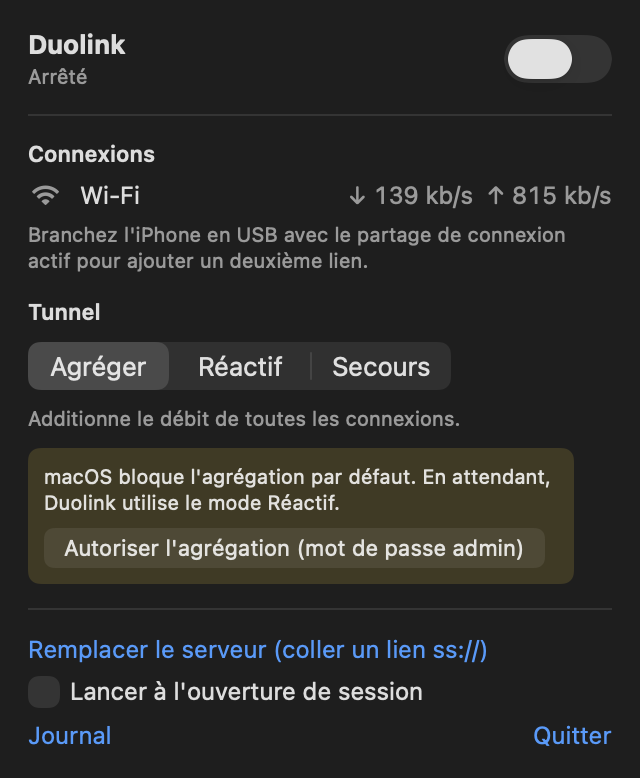
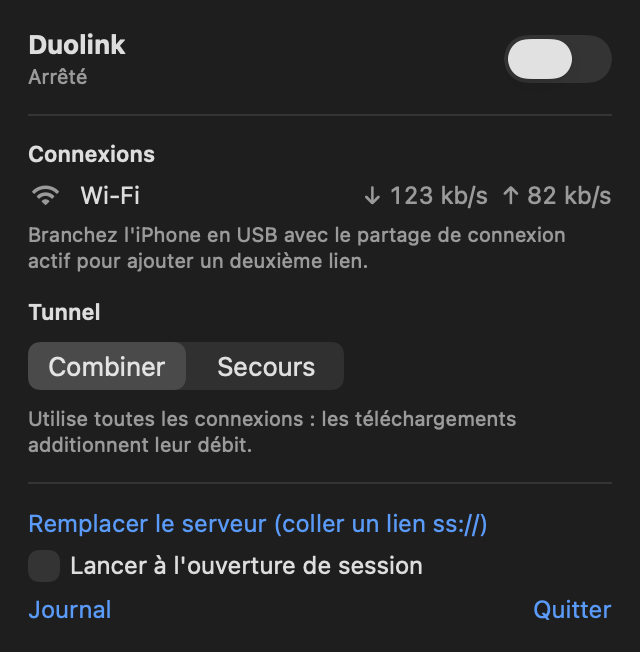
fix: drop the admin-only aggregate mode
The XNU scheduler only splits uploads between a cellular and a
non-cellular subflow, so the aggregate service type changes nothing
for Wi-Fi plus iPhone USB, both non-cellular. The interactive type
already opens a subflow per interface and the Linux server spreads
downloads over all of them. This removes the root sysctl, its
LaunchDaemon and the password prompt that kept coming back because
macOS kept the sysctl at 0.

diff --git a/client/Sources/Duolink/AppModel.swift b/client/Sources/Duolink/AppModel.swift
@@ -18,7 +18,6 @@ final class AppModel {
     private(set) var links: [LinkStatus] = []
     private(set) var stats = RelayStats()
     private(set) var tunnelRates = Throughput()
-    private(set) var aggregateAllowed = AggregatePermission.isAllowed
     private(set) var notice: String?
     private(set) var launchAtLogin = SMAppService.mainApp.status == .enabled
 
@@ -27,12 +26,6 @@ final class AppModel {
             UserDefaults.standard.set(mode.rawValue, forKey: Keys.mode)
             if isOn { restart() }
         }
-    }
-
-    /// The mode actually used: aggregation silently falls back to interactive
-    /// until the admin permission is granted, instead of failing every connection.
-    var effectiveMode: MultipathMode {
-        mode == .aggregate && !aggregateAllowed ? .interactive : mode
     }
 
     var isOn: Bool { status == .running || status == .starting }
@@ -50,7 +43,7 @@ final class AppModel {
     }
 
     init() {
-        mode = UserDefaults.standard.string(forKey: Keys.mode).flatMap(MultipathMode.init(rawValue:)) ?? .aggregate
+        mode = UserDefaults.standard.string(forKey: Keys.mode).flatMap(MultipathMode.init(rawValue:)) ?? .combine
         server = store.load()
 
         linkMonitor.start { [weak self] links in
@@ -82,7 +75,7 @@ final class AppModel {
         status = .starting
         notice = nil
         let tunnel = Tunnel(
-            options: Tunnel.Options(server: server, mode: effectiveMode, supportDirectory: store.directory)
+            options: Tunnel.Options(server: server, mode: mode, supportDirectory: store.directory)
         ) { [weak self] error in
             Task { @MainActor in self?.fail(error, from: nil) }
         }
@@ -137,11 +130,6 @@ final class AppModel {
     }
 
     private func tick() {
-        let allowed = AggregatePermission.isAllowed
-        if allowed != aggregateAllowed {
-            aggregateAllowed = allowed
-            if mode == .aggregate, isOn { restart() }
-        }
         guard let tunnel else { return }
         stats = tunnel.relayStats
         let now = ProcessInfo.processInfo.systemUptime
@@ -167,17 +155,6 @@ final class AppModel {
             if isOn { restart() }
         } catch {
             notice = "Ce n'est pas un lien ss:// valide."
-        }
-    }
-
-    func allowAggregate() {
-        Task.detached {
-            do {
-                try AggregatePermission.install()
-            } catch {
-                await MainActor.run { self.notice = error.localizedDescription }
-            }
-            await MainActor.run { self.tick() }
         }
     }
 

diff --git a/client/Sources/Duolink/MenuView.swift b/client/Sources/Duolink/MenuView.swift
@@ -91,9 +91,8 @@ struct MenuView: View {
                 }
             }
             Picker("Mode", selection: $model.mode) {
-                Text("Agréger").tag(MultipathMode.aggregate)
-                Text("Réactif").tag(MultipathMode.interactive)
-                Text("Secours").tag(MultipathMode.handover)
+                Text("Combiner").tag(MultipathMode.combine)
+                Text("Secours").tag(MultipathMode.backup)
             }
             .pickerStyle(.segmented)
             .labelsHidden()
@@ -102,17 +101,6 @@ struct MenuView: View {
                 .foregroundStyle(.secondary)
                 .fixedSize(horizontal: false, vertical: true)
 
-            if model.mode == .aggregate && !model.aggregateAllowed {
-                VStack(alignment: .leading, spacing: 6) {
-                    Text("macOS bloque l'agrégation par défaut. En attendant, Duolink utilise le mode Réactif.")
-                        .font(.caption)
-                        .fixedSize(horizontal: false, vertical: true)
-                    Button("Autoriser l'agrégation (mot de passe admin)") { model.allowAggregate() }
-                        .controlSize(.small)
-                }
-                .padding(8)
-                .background(.yellow.opacity(0.15), in: RoundedRectangle(cornerRadius: 6))
-            }
 
             if model.serverUnreachable {
                 Text("Le serveur ne répond pas. Les apps qui passent par Duolink n'ont plus Internet : vérifiez le VPS ou désactivez Duolink.")
@@ -198,9 +186,8 @@ extension LinkStatus.Kind {
 extension MultipathMode {
     var explanation: String {
         switch self {
-        case .aggregate: "Additionne le débit de toutes les connexions."
-        case .interactive: "Utilise la connexion la plus rapide et déborde sur l'autre si besoin."
-        case .handover: "Utilise une seule connexion et bascule sans coupure si elle tombe."
+        case .combine: "Utilise toutes les connexions : les téléchargements additionnent leur débit."
+        case .backup: "Utilise une seule connexion et bascule sans coupure si elle tombe. Économise le forfait."
         case .disabled: ""
         }
     }

diff --git a/client/Sources/DuolinkCore/MultipathRelay.swift b/client/Sources/DuolinkCore/MultipathRelay.swift
@@ -2,23 +2,26 @@ import Foundation
 import Network
 import os
 
-/// How macOS spreads one MPTCP connection over the available interfaces.
+/// How the Mac uses its interfaces for one MPTCP connection.
+///
+/// macOS also has an "aggregate" service type, but it needs a root sysctl and
+/// gains nothing here: the XNU scheduler only spreads uploads between a
+/// cellular and a non-cellular subflow, and Wi-Fi and iPhone USB are both
+/// non-cellular. Downloads are what add up, and the Linux server schedules
+/// those over every subflow the Mac opened.
 public enum MultipathMode: String, CaseIterable, Codable, Sendable {
-    /// Sends on every interface at once to add their bandwidth. Needs
-    /// `net.inet.mptcp.allow_aggregate=1`, see `AggregatePermission`.
-    case aggregate
-    /// Uses the lowest-latency interface and spills over to the others.
-    case interactive
-    /// Uses the primary interface and keeps the others as hot standby.
-    case handover
+    /// Opens a subflow on every interface: the server sends downloads over
+    /// all of them, uploads use the lowest-latency one.
+    case combine
+    /// Keeps a single subflow and moves to another interface if it fails.
+    case backup
     /// Plain TCP. Used by tests over loopback.
     case disabled
 
     var serviceType: NWParameters.MultipathServiceType {
         switch self {
-        case .aggregate: .aggregate
-        case .interactive: .interactive
-        case .handover: .handover
+        case .combine: .interactive
+        case .backup: .handover
         case .disabled: .disabled
         }
     }

diff --git a/client/Sources/duolinkctl/main.swift b/client/Sources/duolinkctl/main.swift
@@ -1,22 +1,15 @@
 import DuolinkCore
 import Foundation
 
-// Prints the root script that allows the aggregation mode:
-//   duolinkctl allow-aggregate | sudo sh
-if CommandLine.arguments.dropFirst().first == "allow-aggregate" {
-    print(AggregatePermission.installScript)
-    exit(0)
-}
-
 // Headless runner, handy over SSH or to test without the menu bar app:
-//   DUOLINK_LINK='ss://...' duolinkctl [aggregate|interactive|handover] [--system-proxy]
+//   DUOLINK_LINK='ss://...' duolinkctl [combine|backup] [--system-proxy]
 // The link comes from the environment so the password stays out of `ps`.
 let arguments = CommandLine.arguments.dropFirst()
 guard let link = ProcessInfo.processInfo.environment["DUOLINK_LINK"], let server = try? ServerConfig(uri: link) else {
-    FileHandle.standardError.write(Data("usage: DUOLINK_LINK=<ss://link> duolinkctl [aggregate|interactive|handover] [--system-proxy]\n".utf8))
+    FileHandle.standardError.write(Data("usage: DUOLINK_LINK=<ss://link> duolinkctl [combine|backup] [--system-proxy]\n".utf8))
     exit(64)
 }
-let mode = arguments.compactMap(MultipathMode.init(rawValue:)).first ?? .aggregate
+let mode = arguments.compactMap(MultipathMode.init(rawValue:)).first ?? .combine
 var options = Tunnel.Options(
     server: server,
     mode: mode,

diff --git a/client/Tests/DuolinkCoreTests/MultipathRelayTests.swift b/client/Tests/DuolinkCoreTests/MultipathRelayTests.swift
@@ -74,9 +74,9 @@ import Testing
     }
 
     @Test func upstreamBypassesTheSystemProxyThatPointsBackAtUs() {
-        let parameters = MultipathRelay.upstreamParameters(mode: .aggregate)
+        let parameters = MultipathRelay.upstreamParameters(mode: .combine)
         #expect(parameters.preferNoProxies)
-        #expect(parameters.multipathServiceType == .aggregate)
+        #expect(parameters.multipathServiceType == .interactive)
     }
 
     @Test func tracksActiveConnections() async throws {

diff --git a/README.md b/README.md
@@ -13,7 +13,7 @@ Apps du Mac
 sing-box (client Shadowsocks 2022, chiffré)
    │  TCP local (127.0.0.1:20801)
    ▼
-Relais MPTCP (Network.framework, mode aggregate)
+Relais MPTCP (Network.framework)
    ├── sous-flux via le Wi-Fi du train ──┐
    └── sous-flux via l'iPhone en USB ────┤
                                          ▼
@@ -77,8 +77,7 @@ cd duolink
 Puis, dans le menu Duolink :
 
 1. Copiez le lien `ss://` affiché par le serveur et cliquez sur **Coller le lien ss://**.
-2. Cliquez sur **Autoriser l'agrégation** et entrez votre mot de passe administrateur (une seule fois, voir plus bas).
-3. Activez l'interrupteur.
+2. Activez l'interrupteur. Aucun mot de passe administrateur n'est demandé.
 
 ## Dans le train
 
@@ -94,15 +93,12 @@ Si le serveur ne répond plus, le menu affiche une alerte rouge : les apps qui p
 
 | Mode | Comportement |
 |---|---|
-| **Agréger** | Envoie sur toutes les interfaces en même temps pour additionner les débits. |
-| **Réactif** | Utilise l'interface la plus rapide et déborde sur l'autre quand elle sature. |
-| **Secours** | Utilise une seule interface et bascule sans couper les connexions si elle tombe. Économise le forfait de l'iPhone. |
+| **Combiner** | Ouvre un sous-flux sur chaque connexion. Le serveur envoie les téléchargements sur toutes à la fois, leurs débits s'additionnent. Les envois du Mac passent par la connexion la plus rapide. |
+| **Secours** | Utilise une seule connexion et bascule sans couper les connexions si elle tombe. Économise le forfait de l'iPhone. |
 
-### Pourquoi un mot de passe administrateur
+### Pourquoi pas le mode « aggregate » de macOS
 
-macOS refuse le mode MPTCP « aggregate » aux apps tierces tant que le réglage `net.inet.mptcp.allow_aggregate` vaut 0. Ce réglage revient à 0 à chaque redémarrage. Duolink installe donc un LaunchDaemon (`/Library/LaunchDaemons/io.github.leo-mathurin.duolink.allow-aggregate.plist`) qui le remet à 1 au démarrage. Sans cette autorisation, Duolink utilise le mode Réactif.
-
-Pour le faire à la main : `dist/duolinkctl allow-aggregate | sudo sh`.
+macOS propose un mode MPTCP « aggregate », réservé aux apps tierces après un réglage root (`net.inet.mptcp.allow_aggregate`). Il n'apporterait rien ici : l'ordonnanceur du noyau ne répartit les envois qu'entre une interface cellulaire et une interface non cellulaire, et le Wi-Fi comme l'iPhone en USB sont non cellulaires. Ce sont les téléchargements qui comptent dans le train, et c'est le serveur Linux qui les répartit sur tous les sous-flux.
 
 ## Limites
 
@@ -110,7 +106,8 @@ Pour le faire à la main : `dist/duolinkctl allow-aggregate | sudo sh`.
 - **L'UDP passe dans le flux TCP** (UDP over TCP). Il est agrégé, mais un appel vidéo en UDP peut subir plus de latence qu'en direct. Les navigateurs n'utilisent pas QUIC à travers un proxy, ils restent donc en TCP agrégé.
 - **Le gain dépend du réseau.** Le Wi-Fi du train est lui-même une liaison 4G sur le toit, et il traverse les mêmes tunnels et zones blanches que votre téléphone. Le gain le plus visible est la continuité : quand un lien tombe, les connexions continuent sur l'autre.
 - **Portails captifs** : seuls `wifi.sncf`, `captive.apple.com`, les domaines `.local` et les adresses privées restent en direct. Sur un autre réseau, désactivez Duolink le temps de valider le portail.
-- **Le forfait de l'iPhone est consommé** en mode Agréger. Passez en mode Secours pour l'économiser.
+- **Les envois ne s'additionnent pas** : un upload passe par une seule connexion à la fois (voir plus haut). Il bascule sur l'autre si elle est plus rapide ou si elle tombe.
+- **Le forfait de l'iPhone est consommé** en mode Combiner. Passez en mode Secours pour l'économiser.
 - **Si l'app est tuée brutalement**, le proxy système peut rester actif et couper Internet. Relancez Duolink : il arrête l'ancien sing-box et restaure le réglage. Sinon, désactivez les proxys dans Réglages Système > Réseau > Wi-Fi > Proxys.
 
 ## Outil en ligne de commande
@@ -118,8 +115,8 @@ Pour le faire à la main : `dist/duolinkctl allow-aggregate | sudo sh`.
 `duolinkctl` lance le même tunnel sans interface, pratique pour tester :
 
 ```sh
-DUOLINK_LINK='ss://...' dist/duolinkctl aggregate                 # proxy sur 127.0.0.1:20802
-DUOLINK_LINK='ss://...' dist/duolinkctl interactive --system-proxy
+DUOLINK_LINK='ss://...' dist/duolinkctl                    # mode Combiner, proxy sur 127.0.0.1:20802
+DUOLINK_LINK='ss://...' dist/duolinkctl backup --system-proxy
 ```
 
 Pour vérifier que le serveur reçoit bien du MPTCP : `ss -Mni` sur le VPS liste les connexions MPTCP et leurs sous-flux.
@@ -128,8 +125,6 @@ Pour vérifier que le serveur reçoit bien du MPTCP : `ss -Mni` sur le VPS liste
 
 ```sh
 rm -rf /Applications/Duolink.app ~/Library/Application\ Support/Duolink
-sudo launchctl bootout system/io.github.leo-mathurin.duolink.allow-aggregate
-sudo rm /Library/LaunchDaemons/io.github.leo-mathurin.duolink.allow-aggregate.plist
 ```
 
 Sur le serveur : `docker compose down` dans `server/`, puis `sudo systemctl disable --now duolink-mptcp`.
